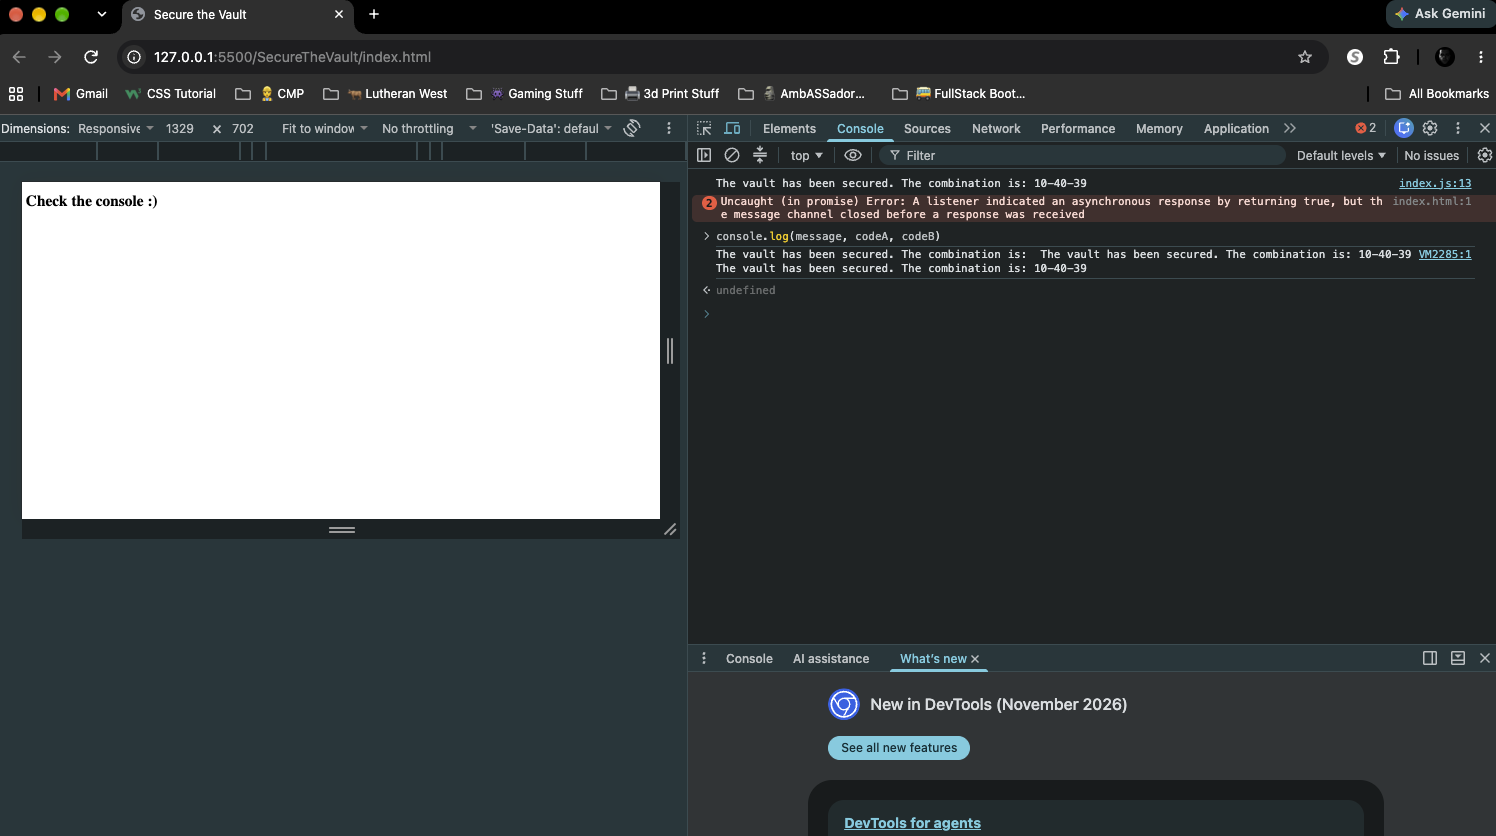
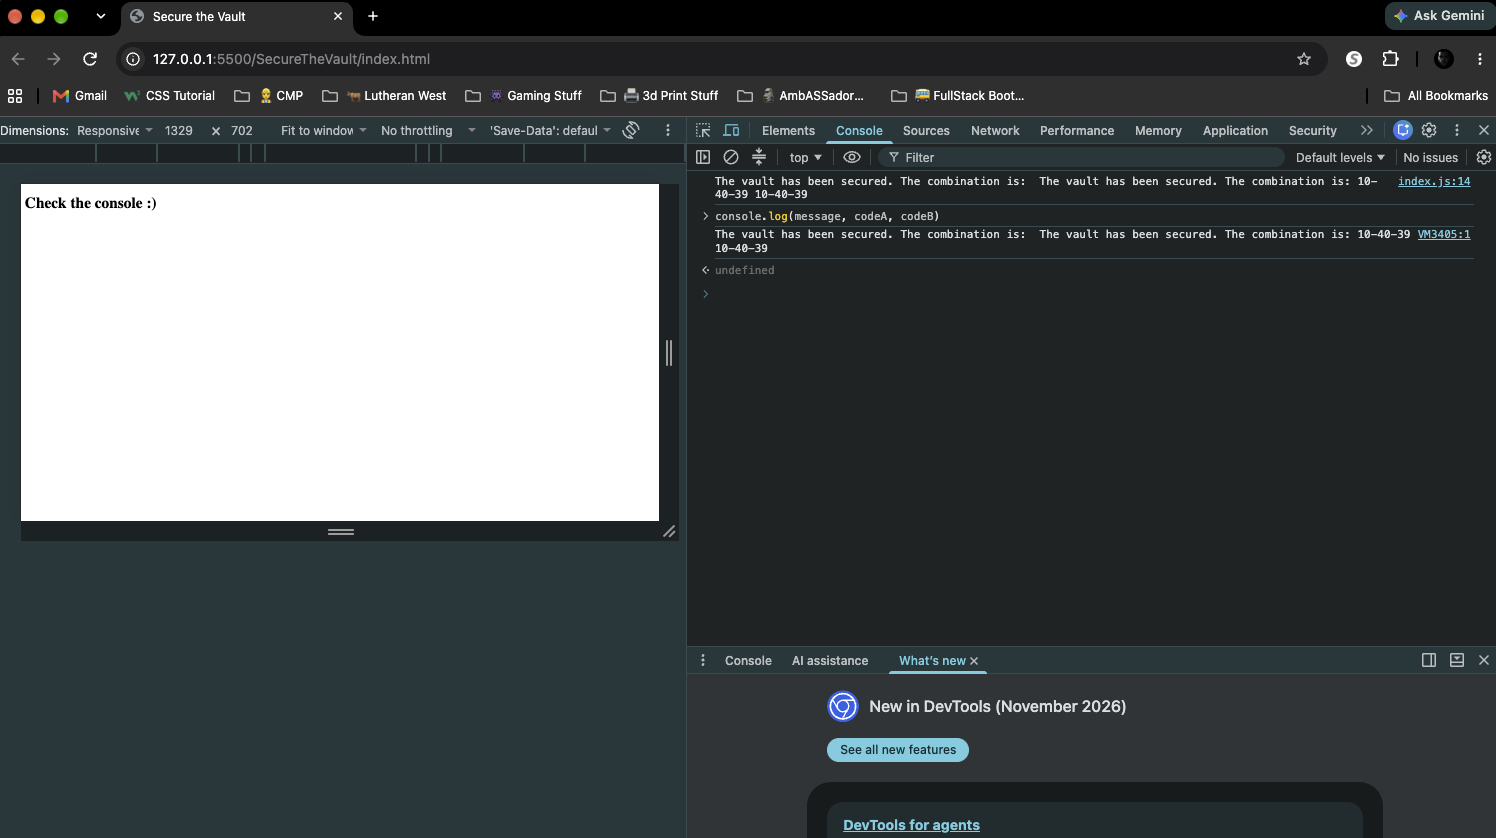
updated js and screenshot as i had misunderstanding of ask

diff --git a/index.js b/index.js
@@ -9,5 +9,6 @@ const message = "The vault has been secured. The combination is: ";
 
 const codeA = message + code1 + "-" + code2 + "-" + code3;
 
-const codeB = `${message}${code1}-${code2}-${code3}`;
-console.log(codeB);
+const codeB = `${code1}-${code2}-${code3}`;
+
+console.log(message, codeA, codeB);
